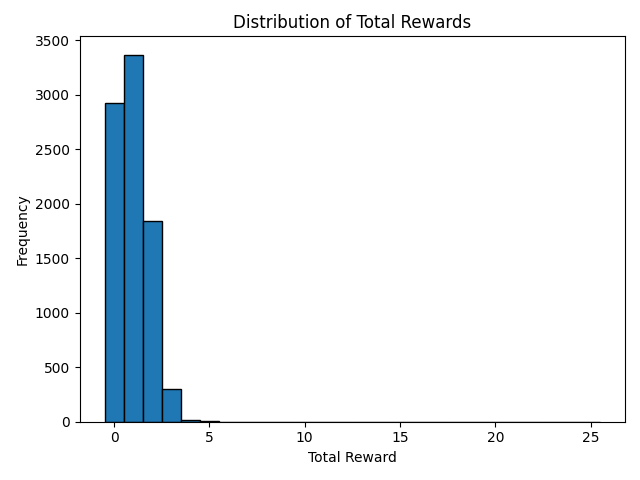
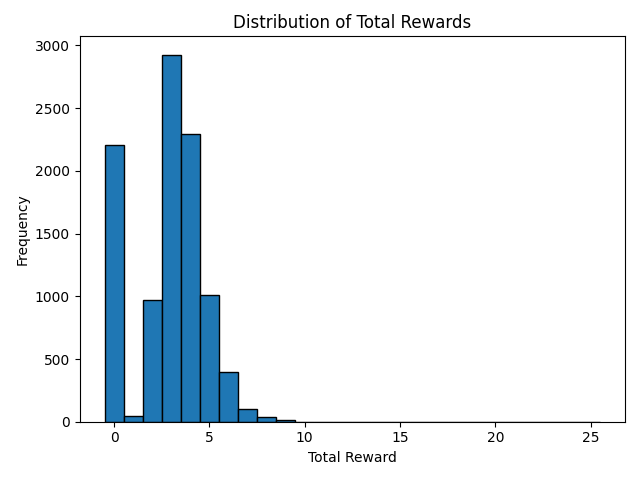
Added action masking to evaluation

diff --git a/evaluation.py b/evaluation.py
@@ -1,4 +1,3 @@
-from hanabi import plot_rewards
 from pettingzoo.classic import hanabi_v5
 import torch
 import variables
@@ -7,7 +6,6 @@ import matplotlib.pyplot as plt
 import time
 
 def plot_reward_histogram(total_rewards):
-    print(total_rewards)
     plt.figure()
     plt.hist(total_rewards, bins=26, range=(-0.5, 25.5), edgecolor='black')
     plt.xlabel("Total Reward")
@@ -20,7 +18,7 @@ def plot_reward_histogram(total_rewards):
 def evaluate():
     num_episodes = 10000
     total_rewards = []
-    policy = load("file.path.here")
+    policy = load("Data/policy_nets/BG AM policy, .005T, 200updt.pth")
     policy.eval()
     env = hanabi_v5.env()
 
@@ -39,9 +37,13 @@ def evaluate():
 
             state = torch.tensor(observation["observation"], dtype=torch.float32, device=variables.device).unsqueeze(0)
 
+            action_mask = torch.tensor(observation["action_mask"], dtype=torch.bool, device=variables.device)
+
             # select and take an action for the current agent
             with torch.no_grad():
-                action = policy(state).max(1).indices.view(1, 1)
+                q_values = policy(state)
+                q_values[~action_mask.unsqueeze(0)] = -float('inf')
+                action = q_values.max(1).indices.view(1, 1)
             
             # save current agent since env.step moves to the next agent
             current_agent = agent
